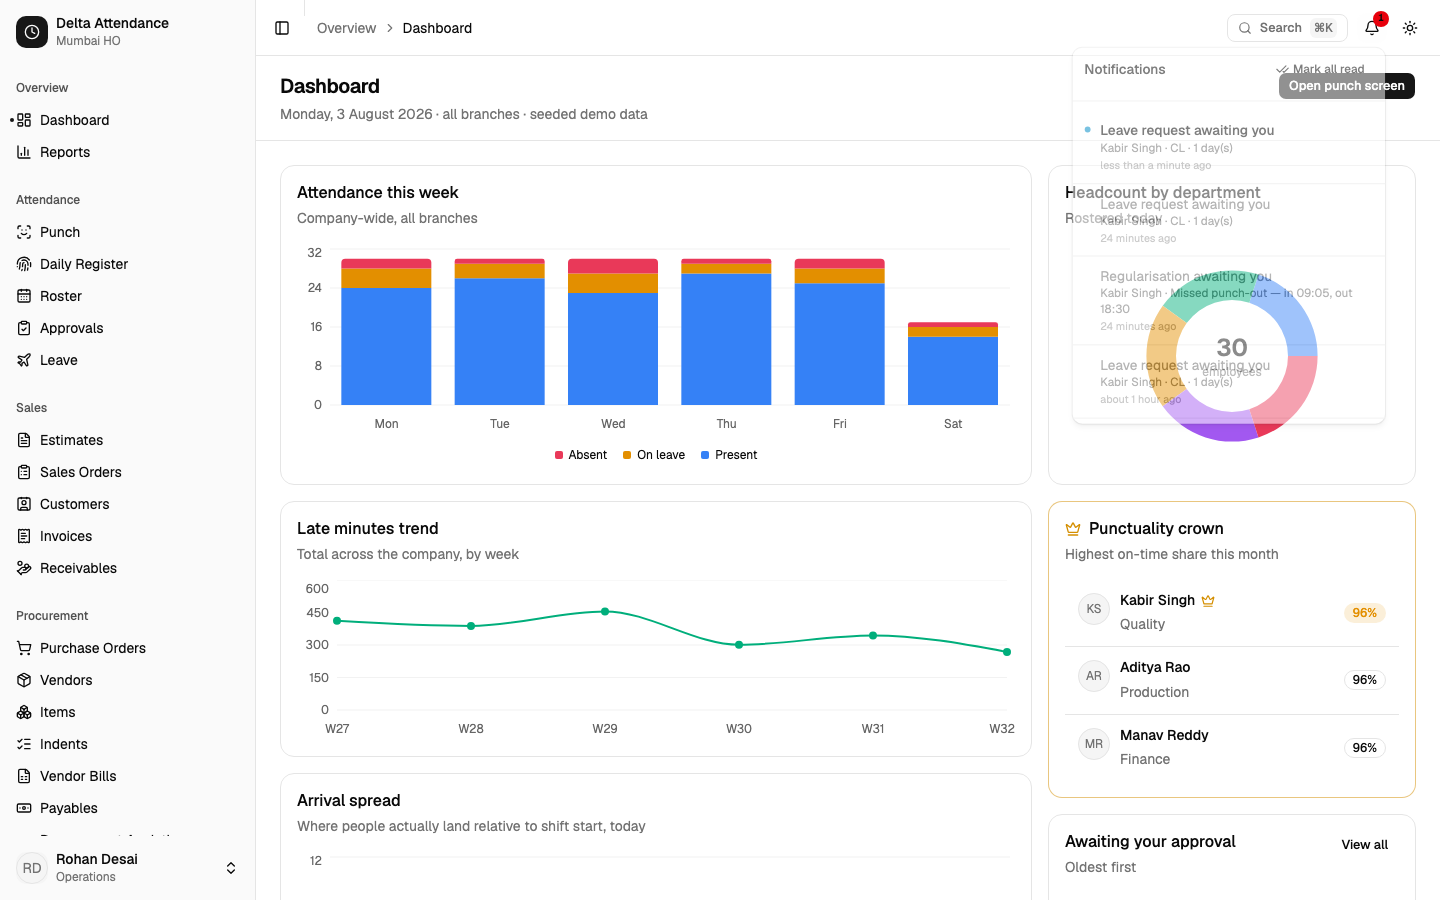
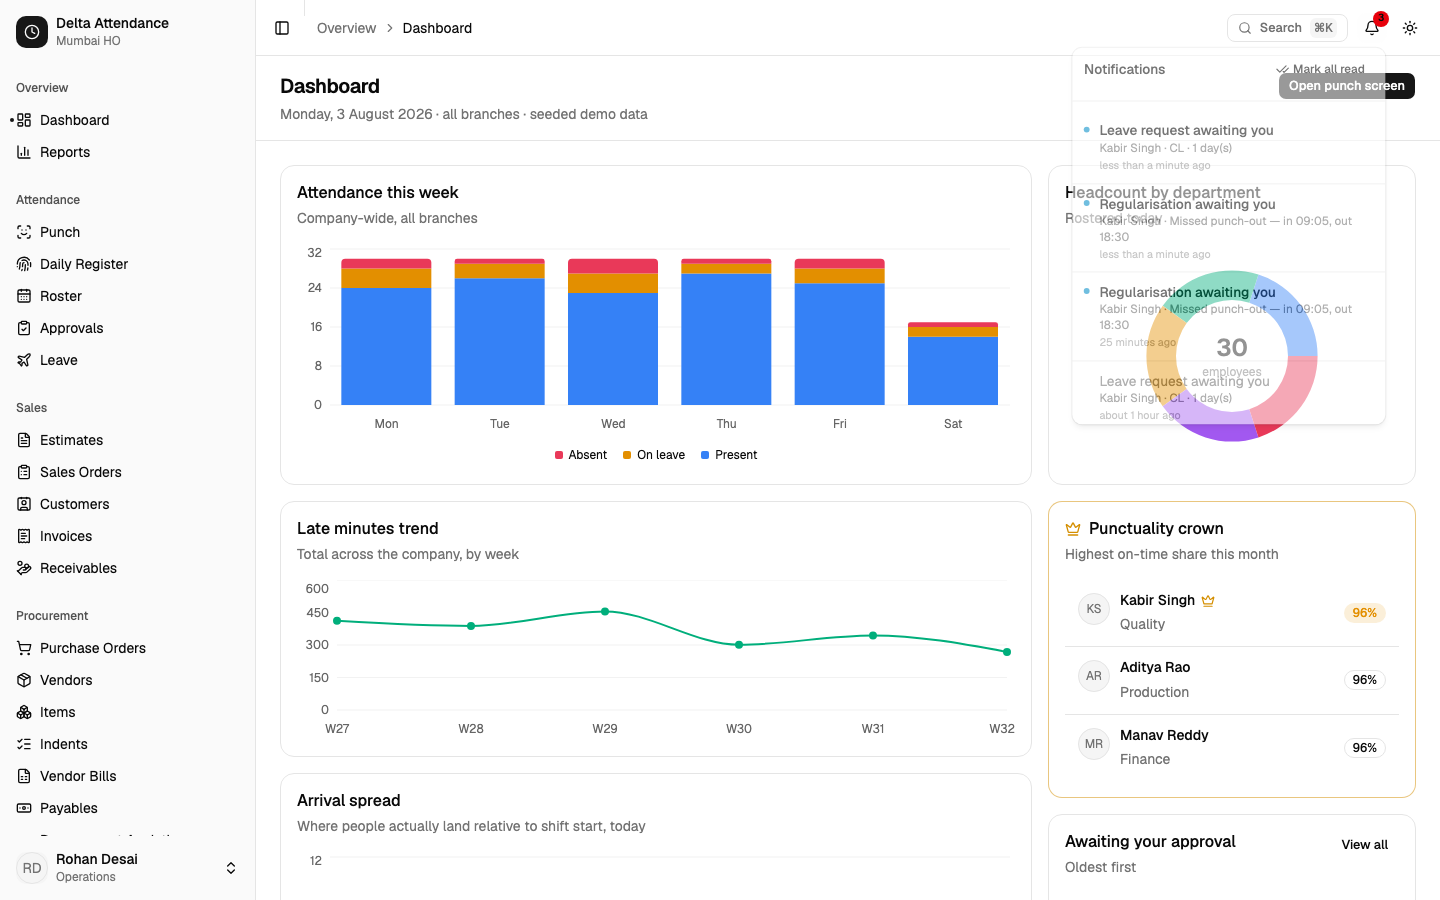
Close the commercial suite: 22 routes now carry their nav permission, with a test that nav and router agree

Changed region(s): [[0.75, 0.2178, 0.9375, 0.4667], [0.75, 0.1244, 0.875, 0.1867]]

diff --git a/apps/web/src/App.tsx b/apps/web/src/App.tsx
@@ -151,8 +151,16 @@ export default function App() {
       <Routes>
         <Route element={<AppLayout />}>
           <Route index element={<DashboardPage />} />
-          <Route path="punch" element={<PunchPage />} />
-          <Route path="attendance" element={<AttendancePage />} />
+          <Route path="punch" element={
+              <RequirePermission permission="punch.self">
+                <PunchPage />
+              </RequirePermission>
+            } />
+          <Route path="attendance" element={
+              <RequirePermission permission="reports.view">
+                <AttendancePage />
+              </RequirePermission>
+            } />
           <Route
             path="roster"
             element={
@@ -179,34 +187,114 @@ export default function App() {
           />
           <Route path="employees/:id" element={<EmployeeDetailPage />} />
           <Route path="leave" element={<LeavePage />} />
-          <Route path="estimates" element={<EstimatesPage />} />
-          <Route path="estimates/new" element={<EstimateNewPage />} />
-          <Route path="estimates/:id" element={<EstimateDetailPage />} />
-          <Route path="customers" element={<CustomersPage />} />
-          <Route path="sales-orders" element={<SalesOrdersPage />} />
-          <Route path="sales-orders/:id" element={<SalesOrderDetailPage />} />
-          <Route path="purchase-orders" element={<PurchaseOrdersPage />} />
+          <Route path="estimates" element={
+              <RequirePermission permission="sales.view">
+                <EstimatesPage />
+              </RequirePermission>
+            } />
+          <Route path="estimates/new" element={
+              <RequirePermission permission="sales.manage">
+                <EstimateNewPage />
+              </RequirePermission>
+            } />
+          <Route path="estimates/:id" element={
+              <RequirePermission permission="sales.view">
+                <EstimateDetailPage />
+              </RequirePermission>
+            } />
+          <Route path="customers" element={
+              <RequirePermission permission="sales.view">
+                <CustomersPage />
+              </RequirePermission>
+            } />
+          <Route path="sales-orders" element={
+              <RequirePermission permission="sales.view">
+                <SalesOrdersPage />
+              </RequirePermission>
+            } />
+          <Route path="sales-orders/:id" element={
+              <RequirePermission permission="sales.view">
+                <SalesOrderDetailPage />
+              </RequirePermission>
+            } />
+          <Route path="purchase-orders" element={
+              <RequirePermission permission="procurement.view">
+                <PurchaseOrdersPage />
+              </RequirePermission>
+            } />
           <Route
             path="purchase-orders/new"
-            element={<PurchaseOrderNewPage />}
+            element={
+              <RequirePermission permission="procurement.manage">
+                <PurchaseOrderNewPage />
+              </RequirePermission>
+            }
           />
           <Route
             path="purchase-orders/:id"
-            element={<PurchaseOrderDetailPage />}
+            element={
+              <RequirePermission permission="procurement.view">
+                <PurchaseOrderDetailPage />
+              </RequirePermission>
+            }
           />
-          <Route path="vendors" element={<VendorsPage />} />
-          <Route path="items" element={<ItemsPage />} />
-          <Route path="stock" element={<StockPage />} />
-          <Route path="invoices" element={<InvoicesPage />} />
-          <Route path="invoices/:id" element={<InvoiceDetailPage />} />
-          <Route path="receivables" element={<ReceivablesPage />} />
-          <Route path="indents" element={<IndentsPage />} />
-          <Route path="vendor-bills" element={<VendorBillsPage />} />
-          <Route path="payables" element={<PayablesPage />} />
-          <Route path="expenses" element={<ExpensesPage />} />
+          <Route path="vendors" element={
+              <RequirePermission permission="procurement.view">
+                <VendorsPage />
+              </RequirePermission>
+            } />
+          <Route path="items" element={
+              <RequirePermission permission="procurement.view">
+                <ItemsPage />
+              </RequirePermission>
+            } />
+          <Route path="stock" element={
+              <RequirePermission permission="procurement.view">
+                <StockPage />
+              </RequirePermission>
+            } />
+          <Route path="invoices" element={
+              <RequirePermission permission="sales.view">
+                <InvoicesPage />
+              </RequirePermission>
+            } />
+          <Route path="invoices/:id" element={
+              <RequirePermission permission="sales.view">
+                <InvoiceDetailPage />
+              </RequirePermission>
+            } />
+          <Route path="receivables" element={
+              <RequirePermission permission="sales.view">
+                <ReceivablesPage />
+              </RequirePermission>
+            } />
+          <Route path="indents" element={
+              <RequirePermission permission="procurement.view">
+                <IndentsPage />
+              </RequirePermission>
+            } />
+          <Route path="vendor-bills" element={
+              <RequirePermission permission="procurement.view">
+                <VendorBillsPage />
+              </RequirePermission>
+            } />
+          <Route path="payables" element={
+              <RequirePermission permission="procurement.view">
+                <PayablesPage />
+              </RequirePermission>
+            } />
+          <Route path="expenses" element={
+              <RequirePermission permission="expense.claim">
+                <ExpensesPage />
+              </RequirePermission>
+            } />
           <Route
             path="procurement-analytics"
-            element={<ProcurementAnalyticsPage />}
+            element={
+              <RequirePermission permission="procurement.view">
+                <ProcurementAnalyticsPage />
+              </RequirePermission>
+            }
           />
           <Route
             path="reports"

diff --git a/apps/web/src/lib/route-guards.test.ts b/apps/web/src/lib/route-guards.test.ts
@@ -1,0 +1,50 @@
+import { describe, expect, it } from "vitest"
+import { readFileSync } from "node:fs"
+import { fileURLToPath } from "node:url"
+
+import { NAV_GROUPS } from "./nav"
+
+/**
+ * Every nav entry that declares a permission must have a route guarded by the
+ * same permission. The two were allowed to drift once already: the sidebar hid
+ * fifteen commercial screens from an employee while every one of them stayed
+ * reachable by URL, including the two that create and submit real purchase
+ * orders and estimates.
+ *
+ * Asserted against the router source rather than a rendered tree, so adding a
+ * route without a guard fails here rather than in a browser nobody ran.
+ */
+const appSource = readFileSync(
+  fileURLToPath(new URL("../App.tsx", import.meta.url)),
+  "utf8"
+)
+
+/** The route element block for a given path, if the router declares one. */
+function routeBlock(path: string): string | null {
+  const escaped = path.replace(/[/\-\\^$*+?.()|[\]{}]/g, "\\$&")
+  const match = appSource.match(
+    new RegExp(`<Route\\s+path="${escaped}"[\\s\\S]*?(?=<Route\\s|</Route>)`)
+  )
+  return match ? match[0] : null
+}
+
+describe("nav permissions and route guards agree", () => {
+  const guarded = NAV_GROUPS.flatMap((group) => group.items)
+    .filter((item) => item.permission && item.url.startsWith("/") && item.url !== "/")
+    .map((item) => ({ url: item.url, permission: item.permission! }))
+
+  it("covers a meaningful number of screens", () => {
+    expect(guarded.length).toBeGreaterThan(15)
+  })
+
+  it.each(guarded)("$url is guarded by $permission", ({ url, permission }) => {
+    const block = routeBlock(url.slice(1))
+    // A nav entry pointing at a route the router does not declare is itself a
+    // problem worth surfacing.
+    expect(block, `no route declared for ${url}`).not.toBeNull()
+    expect(
+      block!.includes(`permission="${permission}"`),
+      `${url} is reachable without ${permission}`
+    ).toBe(true)
+  })
+})

diff --git a/DECISIONS.md b/DECISIONS.md
@@ -410,6 +410,18 @@ Reproduced before the fix: the same two rows give `{ CL: 9 }` in write order and
 | L2 | `overdrawnTypes` reports a ledger that got past the gate | Corruption should be surfaced and repaired, not converted into an outage on every leave route. |
 | L3 | Leave cannot be applied into a **locked month** | Regularisations and overtime claims already enforced this; leave was the one write path that did not, so a paid period could still be changed behind payroll's back. |
 
+## 25. The sidebar was the only lock (8 Aug 2026)
+
+Guarding eight privileged routes earlier left the commercial suite untouched. Probed as a plain employee: **all 15 Sales, Procurement and Inventory screens opened**, including `/purchase-orders/new` and `/estimates/new` — so any signed-in employee could create and submit a real purchase order or estimate against a live vendor. The sidebar hid them; nothing stopped a URL.
+
+| # | Decision | Why |
+|---|---|---|
+| R4 | Every commercial route carries **the permission its own nav entry declares** | Nav and route then say the same thing by construction. Guessing per route is how the two drift. |
+| R5 | The two creation screens require the **write** capability (`sales.manage`, `procurement.manage`), not the read one | Opening a list and submitting a purchase order are not the same act. |
+| R6 | A test asserts **nav and router agree**, reading the router source | It found three more unguarded routes the moment it was written — `/punch`, `/attendance`, `/expenses`. A rendered-tree test would have needed a browser nobody runs on every change; this fails in `pnpm test`. |
+
+Verified per role after the change: an employee reaches none of the 15, Operations and Admin reach all 15.
+
 ## 4. Open items
 
 - **Statutory payroll** (PF/ESI/PT/TDS) still deferred per the 4 Aug decision. The payslip prints gross = net and says so explicitly rather than inventing deduction lines.
